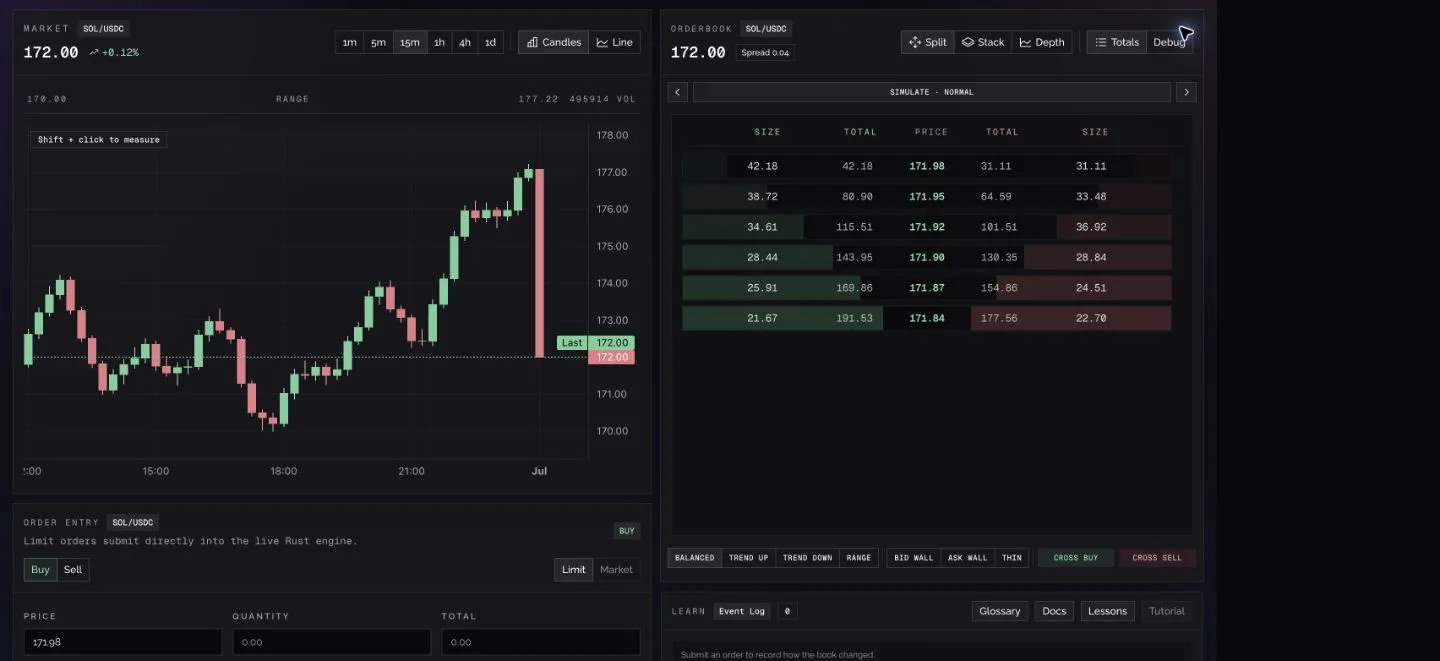
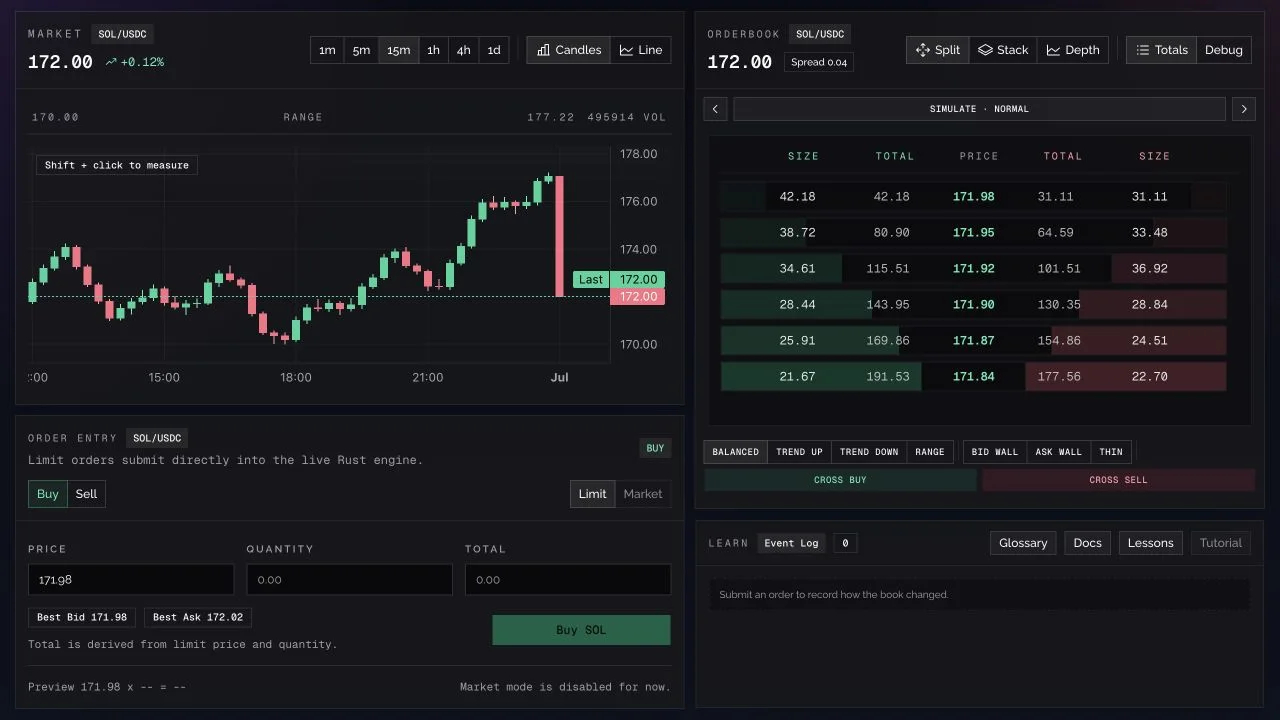
feat: improve order book project presentation

diff --git a/src/data/projects.ts b/src/data/projects.ts
@@ -26,16 +26,16 @@ export const projects: Project[] = [
     slug: 'solbook-core',
     number: '01',
     type: 'Rust systems',
-    name: 'Solbook Core',
-    title: 'A deterministic matching engine with a Rust core and learning terminal.',
+    name: 'Rust Order Book & Matching Engine',
+    title: 'A deterministic engine with price-time priority, replay, and a live learning terminal.',
     summary:
-      'An in-memory SOL/USDC order book with exact decimal validation, price-time priority, structured events, deterministic replay, and a web interface for exploring how the engine behaves.',
+      'Solbook is an in-memory SOL/USDC order book with exact decimal validation, price-time priority, structured events, deterministic replay, and a web interface for exploring how the engine behaves.',
     tags: ['Rust', 'Matching engine', 'Axum', 'Property testing'],
     image: '/projects/solbook-core.webp',
-    imageAlt: 'Solbook market chart, order entry form, and live order book',
-    imageWidth: 1440,
-    imageHeight: 661,
-    imageCaption: 'Learning terminal backed by the live Rust matching engine.',
+    imageAlt: 'Rust order book market chart, order entry form, and live matching engine',
+    imageWidth: 1280,
+    imageHeight: 720,
+    imageCaption: 'Solbook learning terminal backed by the live Rust matching engine.',
     repositoryNote: 'The repository is private while I continue refining the project.',
     problem:
       'I wanted to understand order-book behavior through a core small enough to reason about, but strict enough that fills, ordering, and replay could be checked instead of hand-waved.',

diff --git a/scripts/generate_resume.py b/scripts/generate_resume.py
@@ -240,7 +240,7 @@ def build_resume() -> None:
     story += section_heading("Selected Projects", styles["section"])
     projects = [
         (
-            "Solbook Core",
+            "Rust Order Book & Matching Engine",
             "Rust, Axum, matching engines",
             "Built a deterministic matching engine with exact decimal validation, FIFO price-time priority, structured events, replay tests, and a web learning terminal.",
             "https://www.joeyalvarado.dev/projects/solbook-core",
